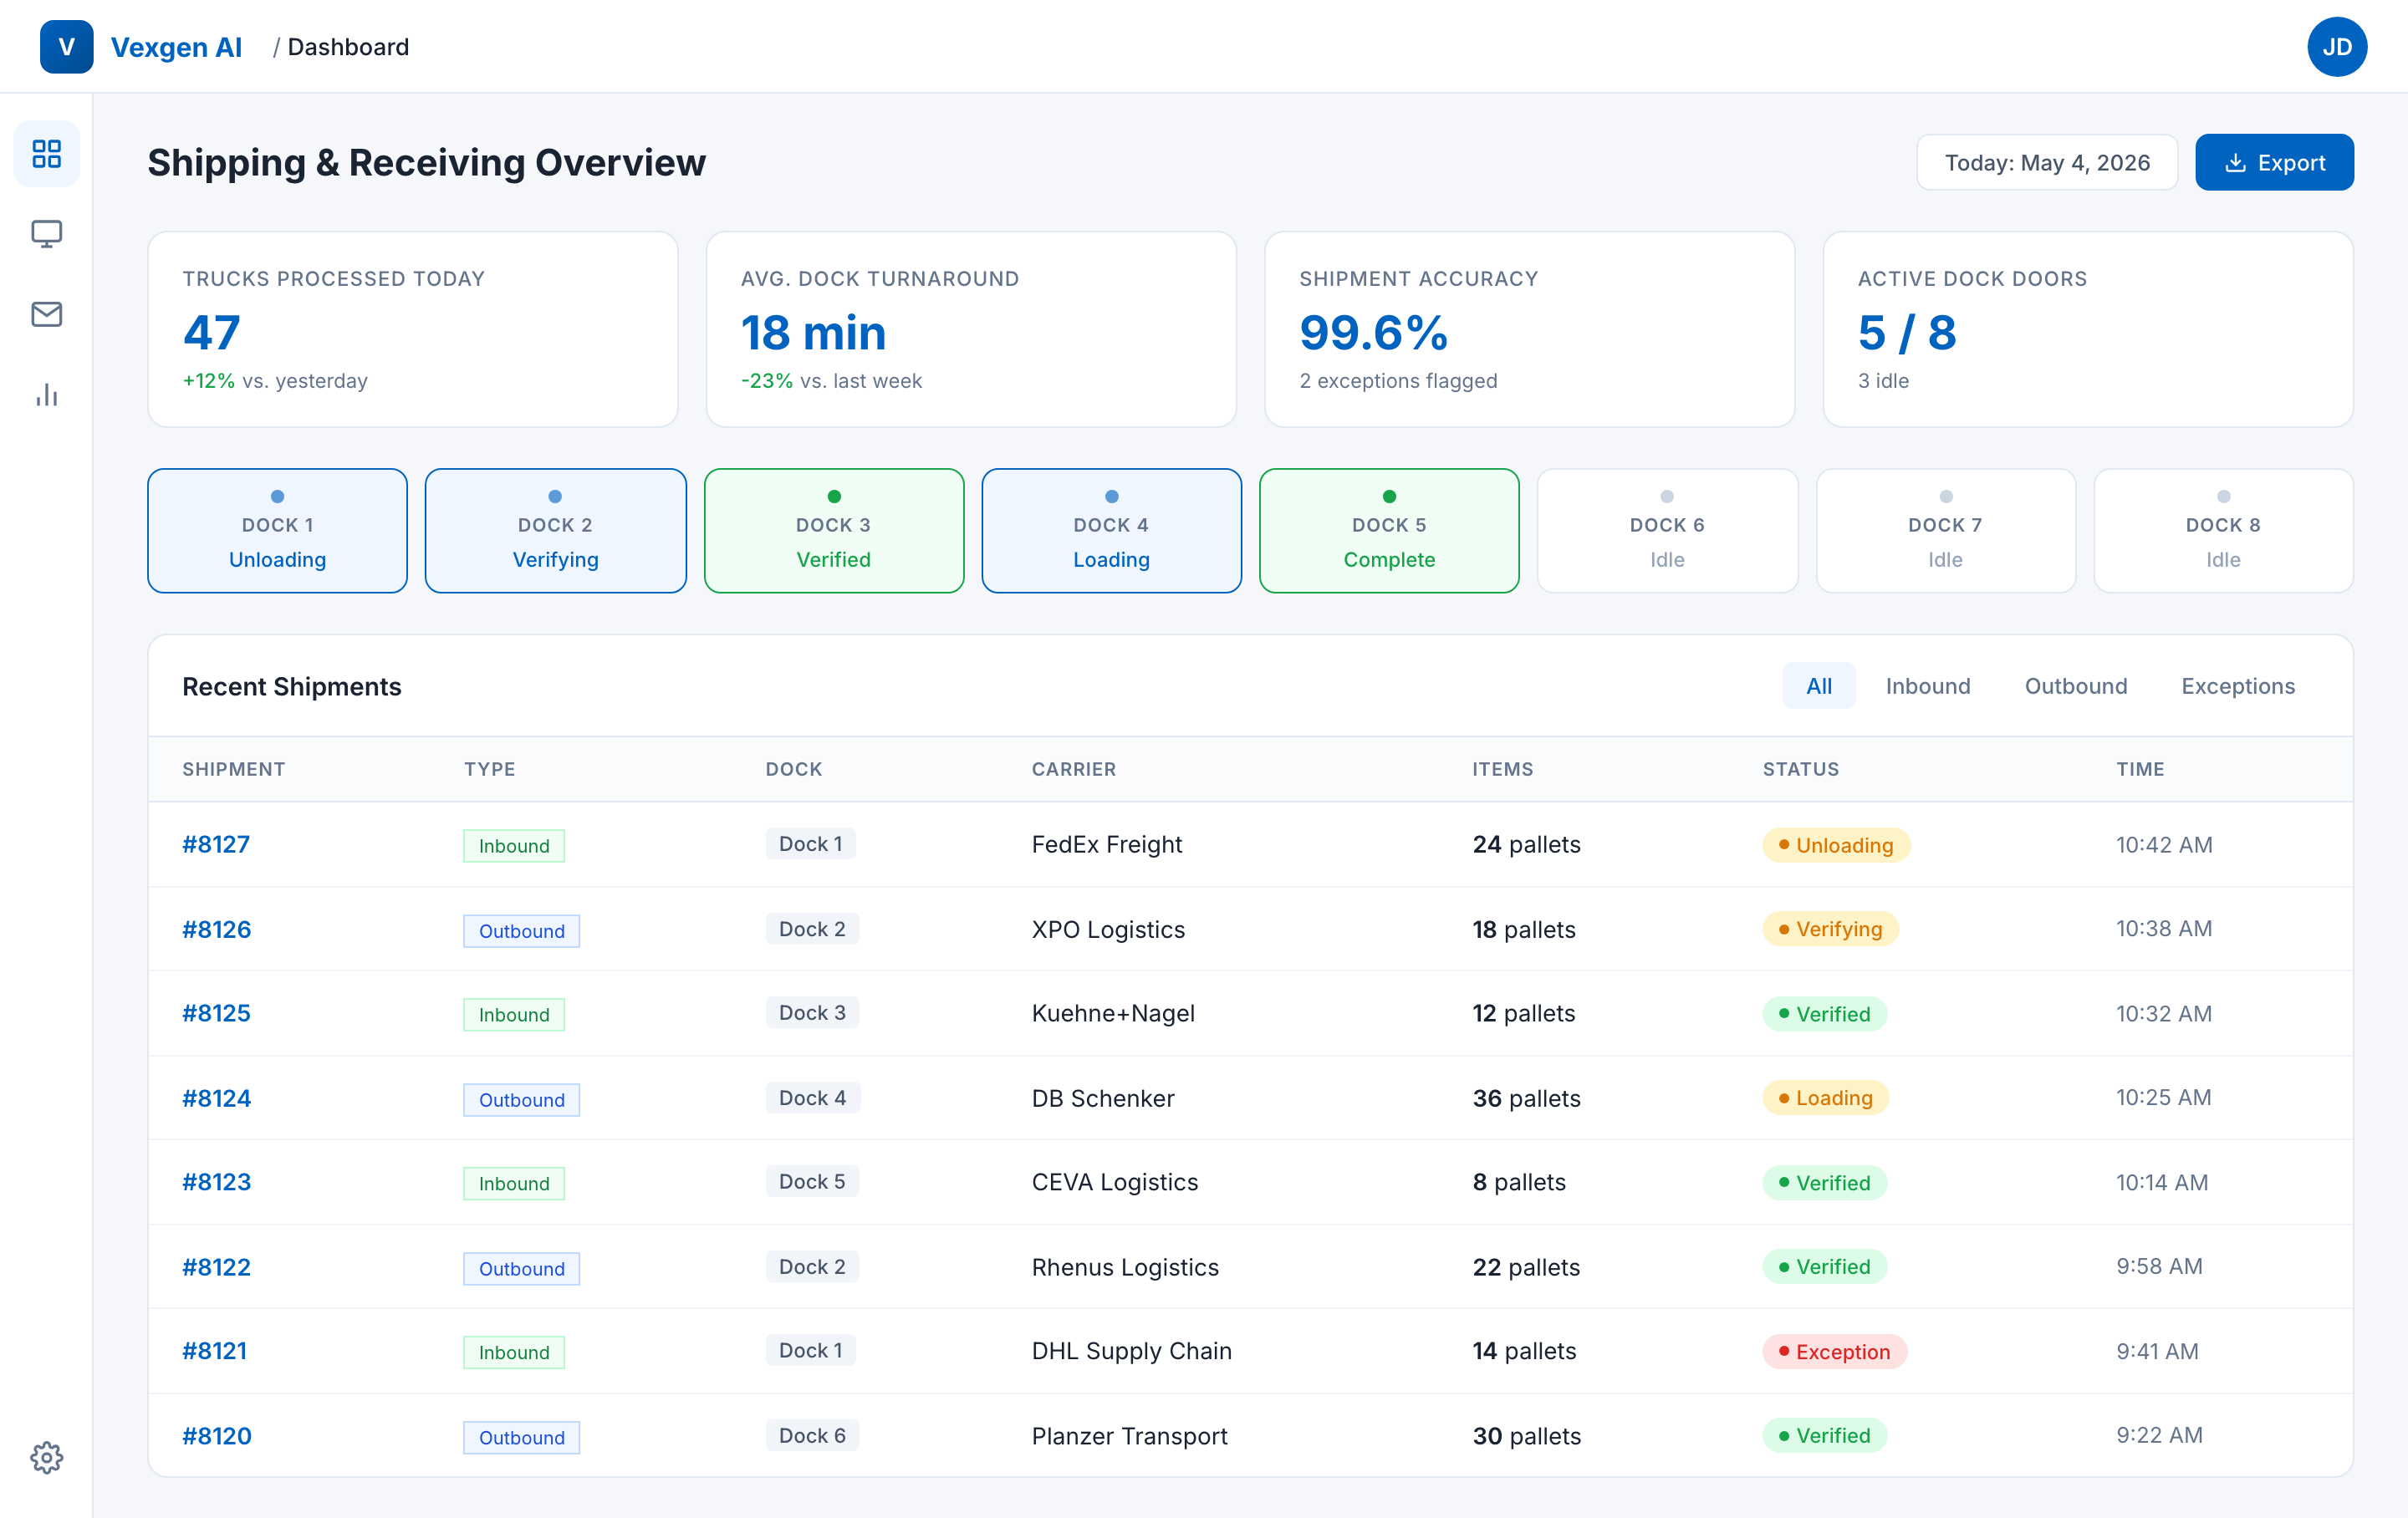
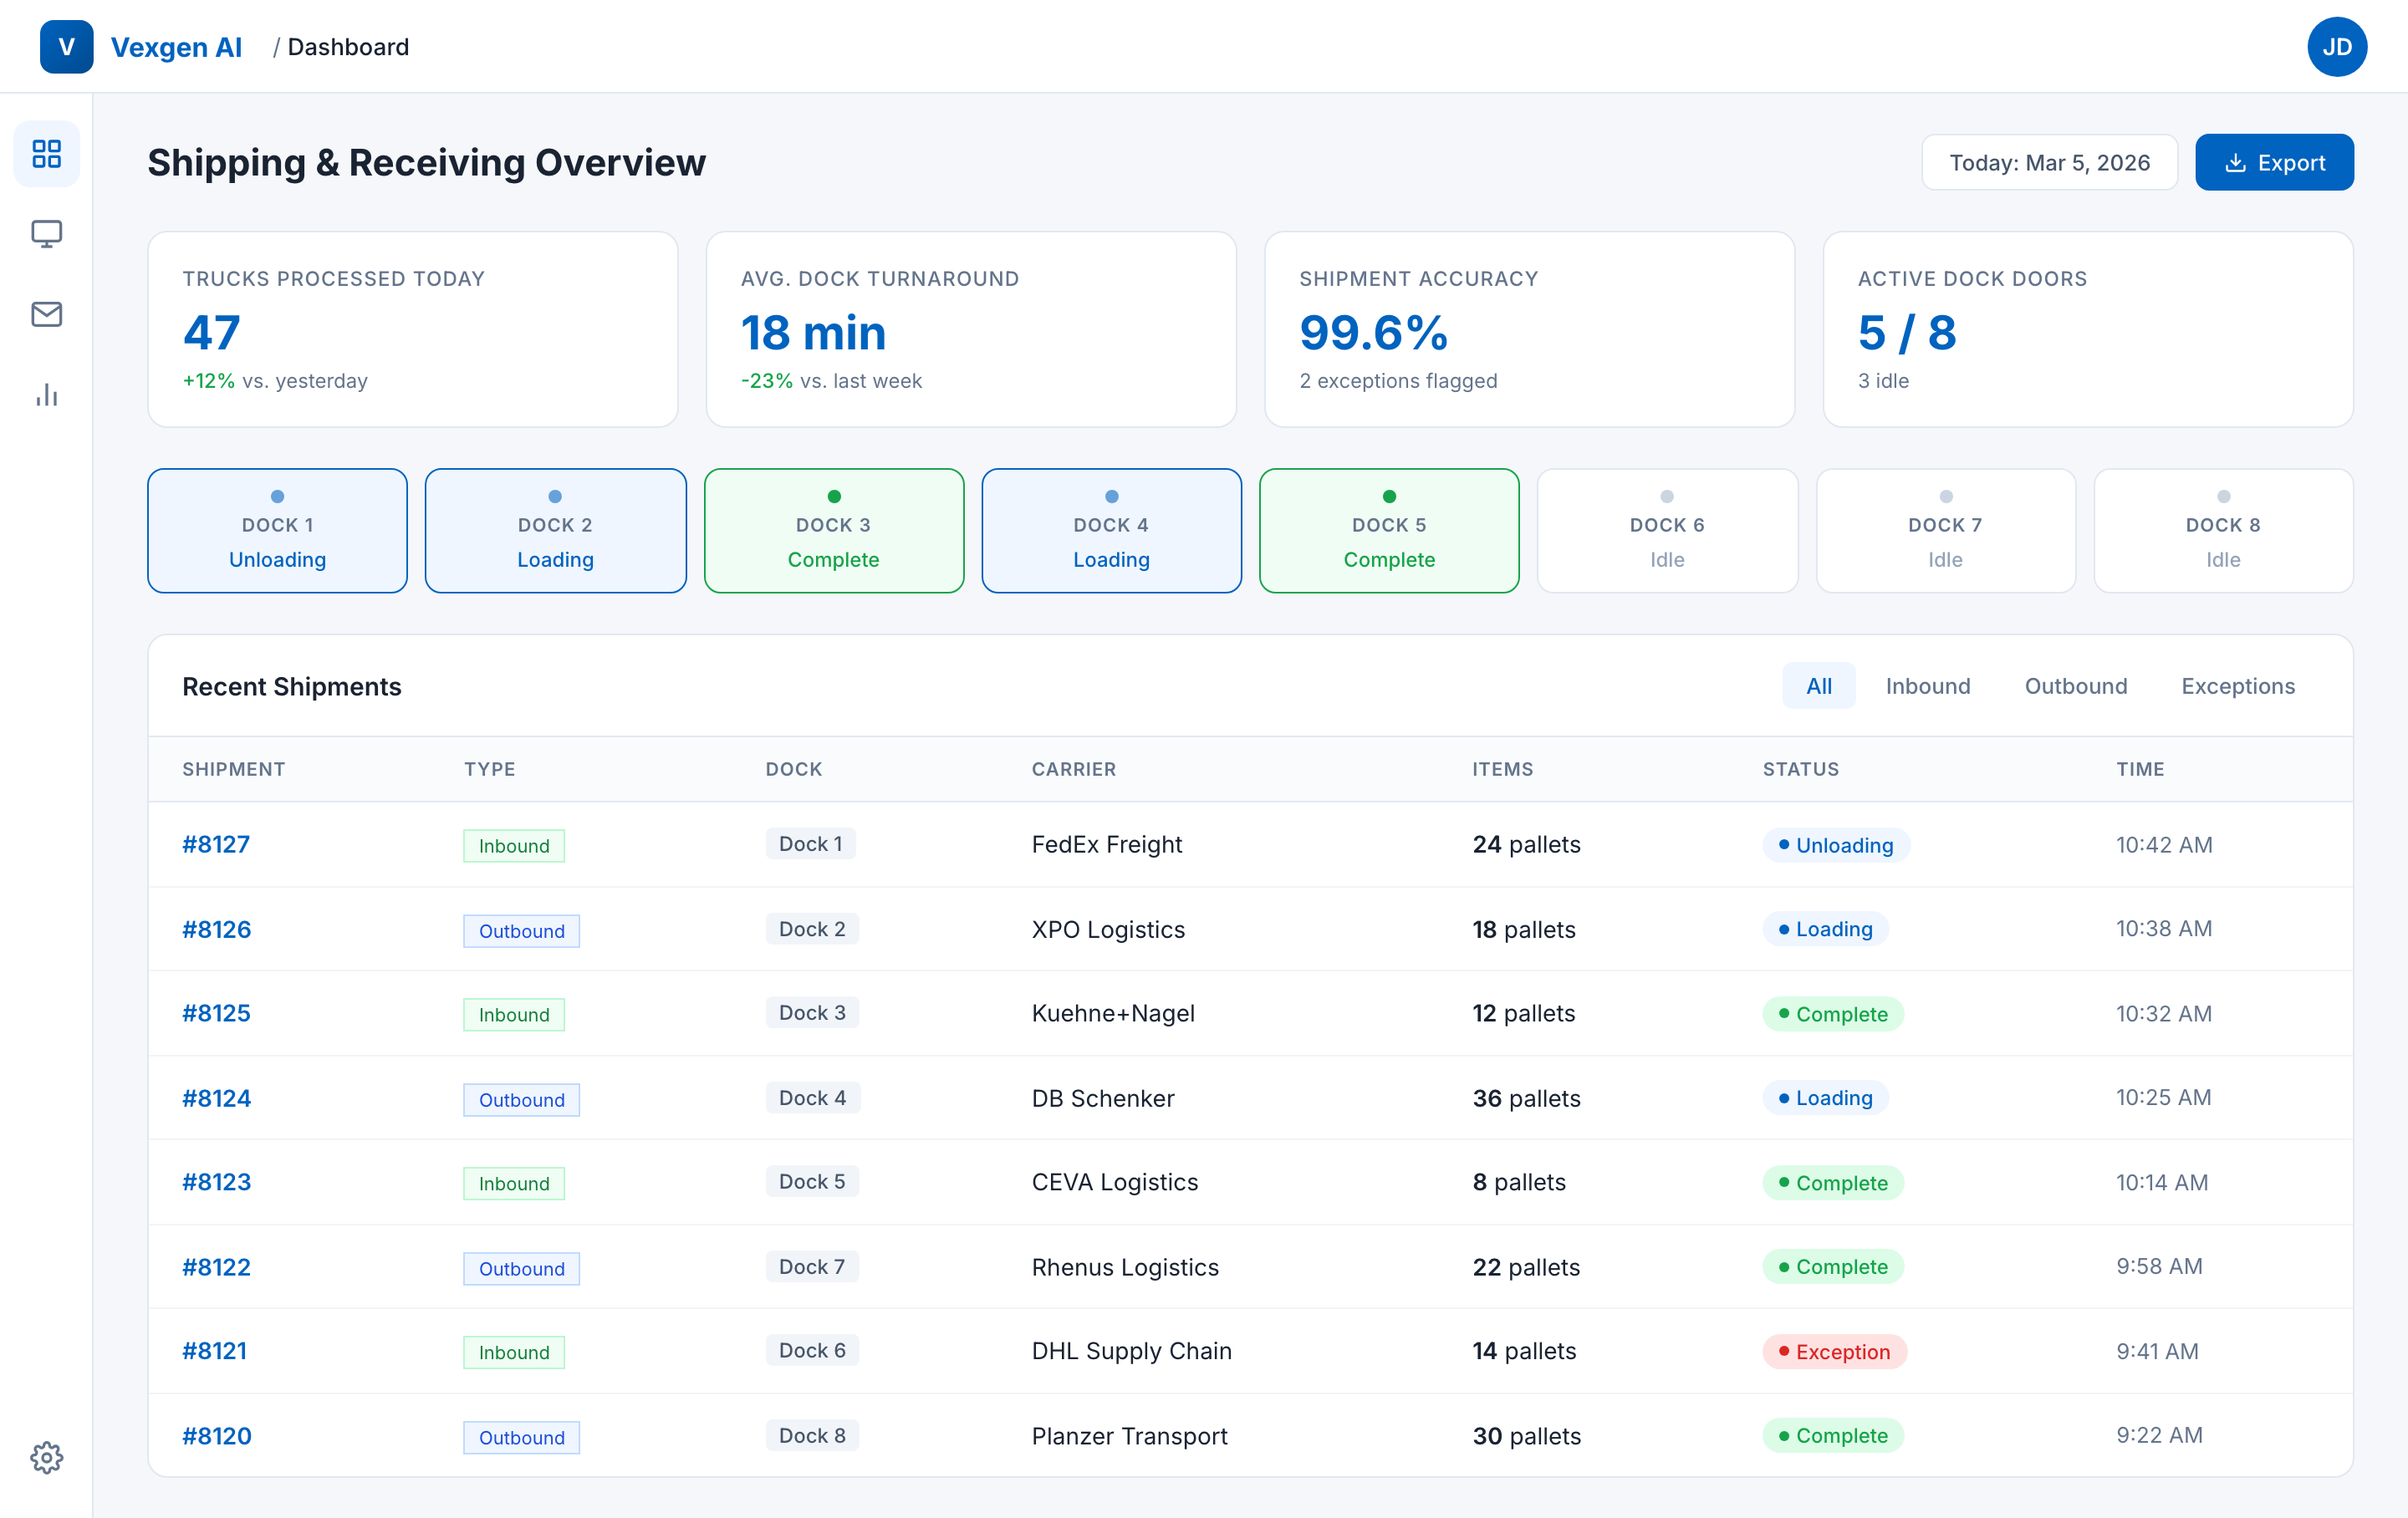
Update dashboard mockups, statuses, and company page image
- Replace status labels: verifying→loading/unloading, verified→complete
- Apply color scheme: blue for load/unload, green for complete, red for exception
- Change date to March 5, 2026 across mockups
- Use unique dock numbers for all events and table rows
- Update live feed icons and event titles
- Replace company page image with realistic dock photo
- Remove Calendly header, clean up image captions

diff --git a/mockups/dashboard-live-feed.html b/mockups/dashboard-live-feed.html
@@ -54,8 +54,6 @@
   .badge-dot { width: 5px; height: 5px; border-radius: 50%; }
   .badge-verified { background: #dcfce7; color: #16a34a; }
   .badge-verified .badge-dot { background: #16a34a; }
-  .badge-progress { background: #fef3c7; color: #d97706; }
-  .badge-progress .badge-dot { background: #d97706; }
   .badge-detecting { background: #eff6ff; color: #0063BF; }
   .badge-detecting .badge-dot { background: #0063BF; animation: pulse 1.5s infinite; }
   .badge-exception { background: #fee2e2; color: #dc2626; }
@@ -93,20 +91,20 @@
 
   <div class="feed">
 
-    <!-- Active detection -->
+    <!-- Unloading in progress -->
     <div class="event active">
       <div class="event-icon blue">
-        <svg viewBox="0 0 24 24" fill="none" stroke="currentColor" stroke-width="2.5"><circle cx="11" cy="11" r="8"/><line x1="21" y1="21" x2="16.65" y2="16.65"/></svg>
+        <svg viewBox="0 0 24 24" fill="none" stroke="currentColor" stroke-width="2.5"><path d="M8 12l4 4 4-4"/><line x1="12" y1="3" x2="12" y2="16"/><line x1="5" y1="21" x2="19" y2="21"/></svg>
       </div>
       <div class="event-body">
         <div class="event-row1">
-          <div class="event-title">Pallet Detected <span class="link">#8127</span></div>
+          <div class="event-title">Unloading in progress <span class="link">#8127</span></div>
           <div style="display:flex;align-items:center;gap:8px;">
-            <span class="badge badge-detecting"><span class="badge-dot"></span>Detecting</span>
+            <span class="badge badge-detecting"><span class="badge-dot"></span>In progress</span>
             <span class="event-time">10:42 AM</span>
           </div>
         </div>
-        <div class="event-desc">3 of 24 pallets verified. Unloading in progress.</div>
+        <div class="event-desc">3 of 24 pallets verified so far.</div>
         <div class="tags">
           <span class="tag tag-dock">Dock 1</span>
           <span class="tag tag-in">Inbound</span>
@@ -123,22 +121,22 @@
 
     <div class="divider"></div>
 
-    <!-- Verifying outbound -->
+    <!-- Loading in progress -->
     <div class="event">
-      <div class="event-icon amber">
-        <svg viewBox="0 0 24 24" fill="none" stroke="currentColor" stroke-width="2.5"><path d="M12 22s8-4 8-10V5l-8-3-8 3v7c0 6 8 10 8 10z"/></svg>
+      <div class="event-icon blue">
+        <svg viewBox="0 0 24 24" fill="none" stroke="currentColor" stroke-width="2.5"><path d="M8 8l4-4 4 4"/><line x1="12" y1="4" x2="12" y2="17"/><line x1="5" y1="21" x2="19" y2="21"/></svg>
       </div>
       <div class="event-body">
         <div class="event-row1">
-          <div class="event-title">Verification In Progress <span class="link">#8126</span></div>
+          <div class="event-title">Loading in progress <span class="link">#8126</span></div>
           <div style="display:flex;align-items:center;gap:8px;">
-            <span class="badge badge-progress"><span class="badge-dot"></span>Verifying</span>
+            <span class="badge badge-detecting"><span class="badge-dot"></span>In progress</span>
             <span class="event-time">10:38 AM</span>
           </div>
         </div>
         <div class="event-desc">16 of 18 pallets matched against BOL. 2 remaining.</div>
         <div class="tags">
-          <span class="tag tag-dock">Dock 2</span>
+          <span class="tag tag-dock">Dock 4</span>
           <span class="tag tag-out">Outbound</span>
           <span class="tag tag-carrier">XPO Logistics</span>
           <span class="tag tag-items">16 / 18 pallets</span>
@@ -148,16 +146,16 @@
 
     <div class="divider"></div>
 
-    <!-- Verified -->
+    <!-- Shipment Complete -->
     <div class="event">
       <div class="event-icon green">
         <svg viewBox="0 0 24 24" fill="none" stroke="currentColor" stroke-width="2.5"><polyline points="20 6 9 17 4 12"/></svg>
       </div>
       <div class="event-body">
         <div class="event-row1">
-          <div class="event-title">Shipment Verified <span class="link">#8125</span></div>
+          <div class="event-title">Shipment Complete <span class="link">#8125</span></div>
           <div style="display:flex;align-items:center;gap:8px;">
-            <span class="badge badge-verified"><span class="badge-dot"></span>Verified</span>
+            <span class="badge badge-verified"><span class="badge-dot"></span>Complete</span>
             <span class="event-time">10:32 AM</span>
           </div>
         </div>
@@ -188,7 +186,7 @@
         </div>
         <div class="event-desc">2 pallets short vs. BOL. Expected 14, received 12. Evidence captured.</div>
         <div class="tags">
-          <span class="tag tag-dock">Dock 1</span>
+          <span class="tag tag-dock">Dock 5</span>
           <span class="tag tag-in">Inbound</span>
           <span class="tag tag-carrier">DHL Supply Chain</span>
           <span class="tag tag-items">12 / 14 pallets</span>
@@ -198,16 +196,16 @@
 
     <div class="divider"></div>
 
-    <!-- Verified outbound -->
+    <!-- Shipment Complete outbound -->
     <div class="event">
       <div class="event-icon green">
         <svg viewBox="0 0 24 24" fill="none" stroke="currentColor" stroke-width="2.5"><polyline points="20 6 9 17 4 12"/></svg>
       </div>
       <div class="event-body">
         <div class="event-row1">
-          <div class="event-title">Shipment Verified <span class="link">#8122</span></div>
+          <div class="event-title">Shipment Complete <span class="link">#8122</span></div>
           <div style="display:flex;align-items:center;gap:8px;">
-            <span class="badge badge-verified"><span class="badge-dot"></span>Verified</span>
+            <span class="badge badge-verified"><span class="badge-dot"></span>Complete</span>
             <span class="event-time">9:58 AM</span>
           </div>
         </div>

diff --git a/mockups/dashboard-overview.html b/mockups/dashboard-overview.html
@@ -63,17 +63,15 @@
 
   .shipment-id { font-weight: 600; color: #0063BF; }
   .badge { display: inline-flex; align-items: center; gap: 4px; padding: 3px 10px; border-radius: 20px; font-size: 12px; font-weight: 500; }
-  .badge-verified { background: #dcfce7; color: #16a34a; }
-  .badge-progress { background: #fef3c7; color: #d97706; }
+  .badge-complete { background: #dcfce7; color: #16a34a; }
+  .badge-active { background: #eff6ff; color: #0063BF; }
   .badge-exception { background: #fee2e2; color: #dc2626; }
-  .badge-scheduled { background: #eff6ff; color: #0063BF; }
   .badge-inbound { background: #f0fdf4; color: #15803d; border: 1px solid #bbf7d0; font-size: 11px; padding: 2px 8px; }
   .badge-outbound { background: #eff6ff; color: #1d4ed8; border: 1px solid #bfdbfe; font-size: 11px; padding: 2px 8px; }
   .badge-dot { width: 6px; height: 6px; border-radius: 50%; }
-  .badge-verified .badge-dot { background: #16a34a; }
-  .badge-progress .badge-dot { background: #d97706; }
+  .badge-complete .badge-dot { background: #16a34a; }
+  .badge-active .badge-dot { background: #0063BF; }
   .badge-exception .badge-dot { background: #dc2626; }
-  .badge-scheduled .badge-dot { background: #0063BF; }
 
   .dock-label { display: inline-flex; align-items: center; padding: 2px 8px; background: #f1f5f9; border-radius: 4px; font-size: 12px; font-weight: 500; color: #475569; }
 
@@ -135,7 +133,7 @@
     <div class="page-header">
       <div class="page-title">Shipping & Receiving Overview</div>
       <div class="header-actions">
-        <div class="btn">Today: May 4, 2026</div>
+        <div class="btn">Today: Mar 5, 2026</div>
         <div class="btn btn-primary">
           <svg width="14" height="14" viewBox="0 0 24 24" fill="none" stroke="currentColor" stroke-width="2"><path d="M21 15v4a2 2 0 0 1-2 2H5a2 2 0 0 1-2-2v-4"/><polyline points="7 10 12 15 17 10"/><line x1="12" y1="15" x2="12" y2="3"/></svg>
           Export
@@ -175,12 +173,12 @@
       <div class="dock-slot active">
         <div class="dock-indicator"></div>
         <div class="dock-slot-name">Dock 2</div>
-        <div class="dock-slot-status">Verifying</div>
+        <div class="dock-slot-status">Loading</div>
       </div>
       <div class="dock-slot verified">
         <div class="dock-indicator"></div>
         <div class="dock-slot-name">Dock 3</div>
-        <div class="dock-slot-status">Verified</div>
+        <div class="dock-slot-status">Complete</div>
       </div>
       <div class="dock-slot active">
         <div class="dock-indicator"></div>
@@ -238,7 +236,7 @@
             <td><span class="dock-label">Dock 1</span></td>
             <td>FedEx Freight</td>
             <td><span class="items-count">24</span> pallets</td>
-            <td><span class="badge badge-progress"><span class="badge-dot"></span>Unloading</span></td>
+            <td><span class="badge badge-active"><span class="badge-dot"></span>Unloading</span></td>
             <td class="time-cell">10:42 AM</td>
           </tr>
           <tr>
@@ -247,7 +245,7 @@
             <td><span class="dock-label">Dock 2</span></td>
             <td>XPO Logistics</td>
             <td><span class="items-count">18</span> pallets</td>
-            <td><span class="badge badge-progress"><span class="badge-dot"></span>Verifying</span></td>
+            <td><span class="badge badge-active"><span class="badge-dot"></span>Loading</span></td>
             <td class="time-cell">10:38 AM</td>
           </tr>
           <tr>
@@ -256,7 +254,7 @@
             <td><span class="dock-label">Dock 3</span></td>
             <td>Kuehne+Nagel</td>
             <td><span class="items-count">12</span> pallets</td>
-            <td><span class="badge badge-verified"><span class="badge-dot"></span>Verified</span></td>
+            <td><span class="badge badge-complete"><span class="badge-dot"></span>Complete</span></td>
             <td class="time-cell">10:32 AM</td>
           </tr>
           <tr>
@@ -265,7 +263,7 @@
             <td><span class="dock-label">Dock 4</span></td>
             <td>DB Schenker</td>
             <td><span class="items-count">36</span> pallets</td>
-            <td><span class="badge badge-progress"><span class="badge-dot"></span>Loading</span></td>
+            <td><span class="badge badge-active"><span class="badge-dot"></span>Loading</span></td>
             <td class="time-cell">10:25 AM</td>
           </tr>
           <tr>
@@ -274,22 +272,22 @@
             <td><span class="dock-label">Dock 5</span></td>
             <td>CEVA Logistics</td>
             <td><span class="items-count">8</span> pallets</td>
-            <td><span class="badge badge-verified"><span class="badge-dot"></span>Verified</span></td>
+            <td><span class="badge badge-complete"><span class="badge-dot"></span>Complete</span></td>
             <td class="time-cell">10:14 AM</td>
           </tr>
           <tr>
             <td><span class="shipment-id">#8122</span></td>
             <td><span class="badge-outbound">Outbound</span></td>
-            <td><span class="dock-label">Dock 2</span></td>
+            <td><span class="dock-label">Dock 7</span></td>
             <td>Rhenus Logistics</td>
             <td><span class="items-count">22</span> pallets</td>
-            <td><span class="badge badge-verified"><span class="badge-dot"></span>Verified</span></td>
+            <td><span class="badge badge-complete"><span class="badge-dot"></span>Complete</span></td>
             <td class="time-cell">9:58 AM</td>
           </tr>
           <tr>
             <td><span class="shipment-id">#8121</span></td>
             <td><span class="badge-inbound">Inbound</span></td>
-            <td><span class="dock-label">Dock 1</span></td>
+            <td><span class="dock-label">Dock 6</span></td>
             <td>DHL Supply Chain</td>
             <td><span class="items-count">14</span> pallets</td>
             <td><span class="badge badge-exception"><span class="badge-dot"></span>Exception</span></td>
@@ -298,10 +296,10 @@
           <tr>
             <td><span class="shipment-id">#8120</span></td>
             <td><span class="badge-outbound">Outbound</span></td>
-            <td><span class="dock-label">Dock 6</span></td>
+            <td><span class="dock-label">Dock 8</span></td>
             <td>Planzer Transport</td>
             <td><span class="items-count">30</span> pallets</td>
-            <td><span class="badge badge-verified"><span class="badge-dot"></span>Verified</span></td>
+            <td><span class="badge badge-complete"><span class="badge-dot"></span>Complete</span></td>
             <td class="time-cell">9:22 AM</td>
           </tr>
         </tbody>

diff --git a/client/src/lib/translations.ts b/client/src/lib/translations.ts
@@ -20,7 +20,7 @@ export const translations = {
       logistics: "Logistics & Fulfillment"
     },
     hero: {
-      headline: "Automate Shipping & Receiving.\nMaximize Throughput.",
+      headline: "Automate Your Dock.\nMaximize Throughput.",
       subheadline: "",
       tagline: "Trucks move faster. Dock teams do less manual work.\nEvery shipment verified automatically, inbound and outbound.\n\nNo manual scanning. No process change."
     },
@@ -35,7 +35,7 @@ export const translations = {
         roi: { value: "<30 Days", label: "Time to ROI" }
       },
       dashboardCaption: "Live dashboard from active deployment",
-      dispatchDashboardCaption: "Shipping & receiving overview | Vexgen AI"
+      dispatchDashboardCaption: "Shipping & receiving overview"
     },
     problem: {
       label: "The Problem",
@@ -45,19 +45,19 @@ export const translations = {
         "Trucks waiting while teams manually verify shipments",
         "Dock labor spent on repetitive scanning and checking",
         "Slow turnaround slowing your entire operation",
-        "Errors discovered too late, creating rework and claims"
+        "Exceptions discovered too late, creating rework and claims"
       ],
       closing: "The dock should move at the speed of your operation, not slow it down."
     },
     outcome: {
       label: "The Outcome",
-      headline: "What changes when the dock runs itself",
+      headline: "What happens when dock verification is automatic",
       description: "Trucks clear faster. Teams spend less time on manual verification and more time on operations that move the needle.\n\nWith Vexgen AI, dock operations transform:",
       benefits: [
         "Faster truck turnaround with less waiting and more throughput",
         "Dock labor freed from repetitive verification tasks",
         "Inbound and outbound shipments verified automatically",
-        "Errors and damage caught before they become claims"
+        "Exceptions and damage caught before they become claims"
       ],
       closing: "More trucks through the door. Less time per truck. Same team."
     },
@@ -210,7 +210,7 @@ export const translations = {
     cta: {
       requestDemo: "Request a Demo"
     },
-    stockComparison: "Live shipping & receiving feed | Vexgen AI",
+    stockComparison: "Live verification feed",
     industryPages: {
       sections: {
         realityToday: "The Reality Today",

diff --git a/client/src/pages/company.tsx b/client/src/pages/company.tsx
@@ -9,7 +9,7 @@ import { useLanguage } from "@/lib/LanguageContext";
 import { LanguageDropdown } from "@/components/LanguageDropdown";
 import { getDomain, track } from "@/lib/analytics";
 import vixgenLogo from "@assets/Vexgen-owl.png";
-import companyVisionImage from "@assets/company-dispatch.png";
+import companyVisionImage from "@assets/company-dock-real.png";
 
 export default function Company() {
   const { language: lang, getLocalizedPath, switchLanguagePath } = useLanguage();

diff --git a/client/src/pages/home.tsx b/client/src/pages/home.tsx
@@ -545,7 +545,7 @@ export default function Home() {
           <div className="max-w-3xl mx-auto">
             <div 
               className="calendly-inline-widget rounded-xl overflow-hidden" 
-              data-url="https://calendly.com/sebastian-freijo-vexgen/30min?hide_gdpr_banner=1&primary_color=0063BF"
+              data-url="https://calendly.com/sebastian-freijo-vexgen/30min?hide_gdpr_banner=1&hide_event_type_details=1&primary_color=0063BF"
               style={{ minWidth: '320px', height: '950px' }}
             />
           </div>